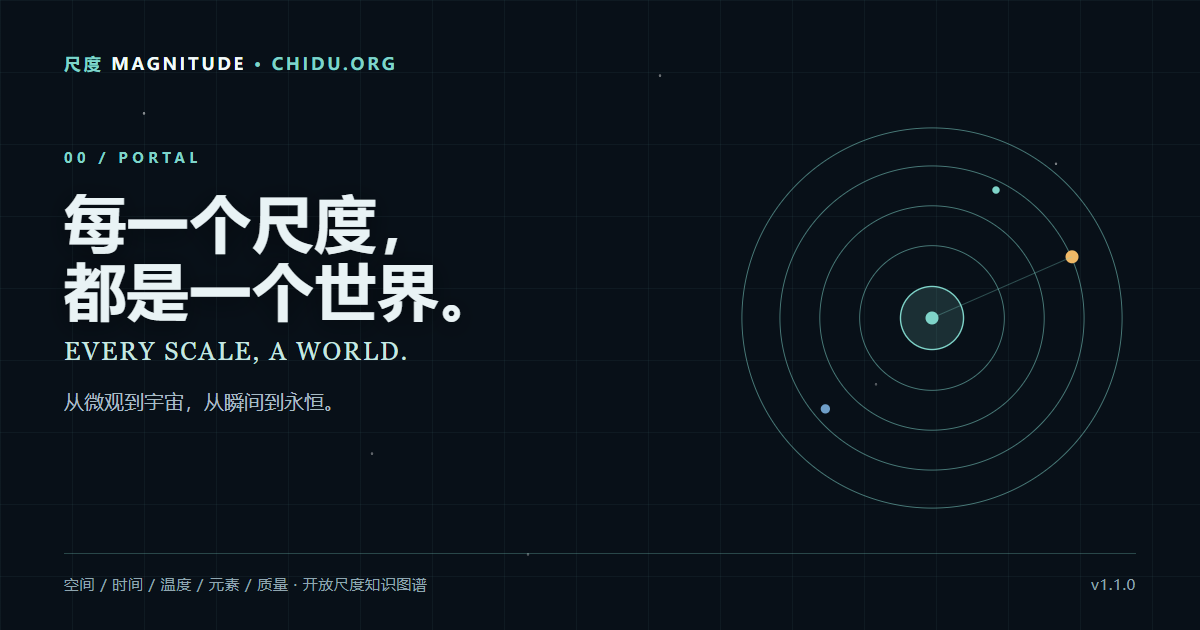
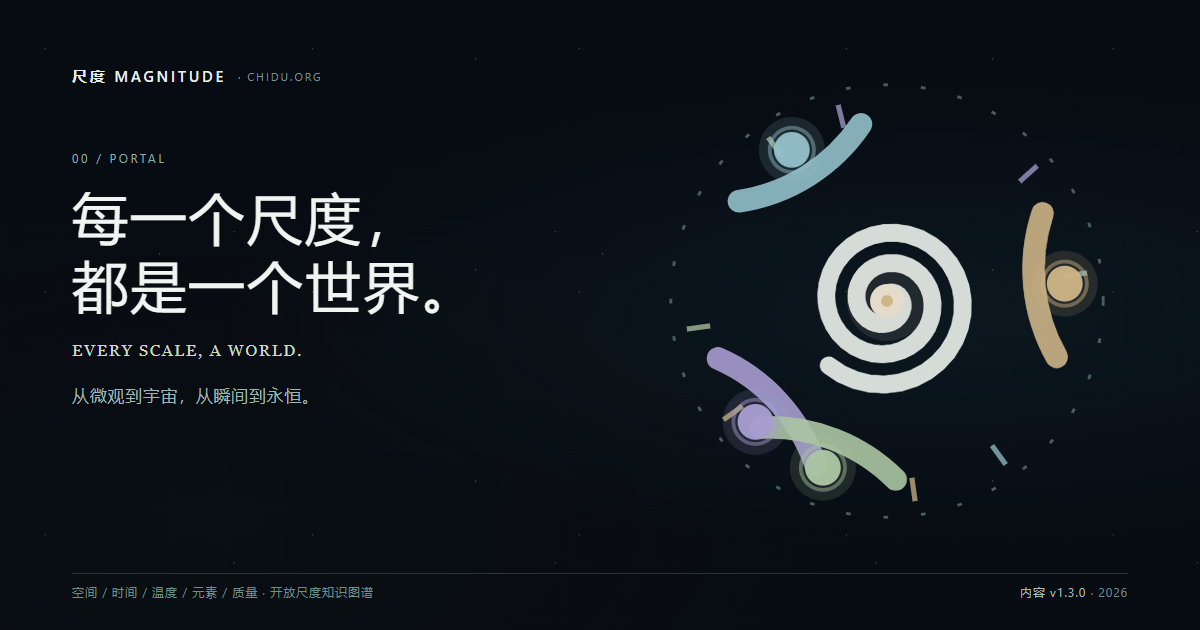
chore(brand): adopt cosmic spiral 01 mark v1.3.0

diff --git a/theme.css b/theme.css
@@ -1235,3 +1235,28 @@ html[data-theme="light"] .mass-page .mass-intro h1 em { color: #a06c2c !importan
 html[data-theme="light"] .mass-page .mass-lede { color: #365563; }
 html[data-theme="light"] .mass-page .mass-intro .eyebrow { color: #57727f; }
 html[data-theme="light"] .mass-page .mass-depth { color: #365563; }
+
+/* Brand mark · Cosmic Spiral 01 */
+.atlas-symbol,
+.brand-mark {
+  display: inline-block !important;
+  width: 28px !important;
+  height: 28px !important;
+  flex: 0 0 28px;
+  overflow: hidden;
+  font-size: 0 !important;
+  line-height: 0 !important;
+  color: transparent !important;
+  text-indent: -9999px;
+  background: url('/symbol.svg?v=1.3.0') center / contain no-repeat !important;
+}
+html[data-theme="light"] .atlas-symbol,
+html[data-theme="light"] .brand-mark {
+  background-image: url('/symbol-light.svg?v=1.3.0') !important;
+}
+@media (max-width: 760px) {
+  .atlas-symbol, .brand-mark { width: 24px !important; height: 24px !important; flex-basis: 24px; }
+}
+@media (max-width: 600px) {
+  .atlas-symbol, .brand-mark { width: 22px !important; height: 22px !important; flex-basis: 22px; }
+}
